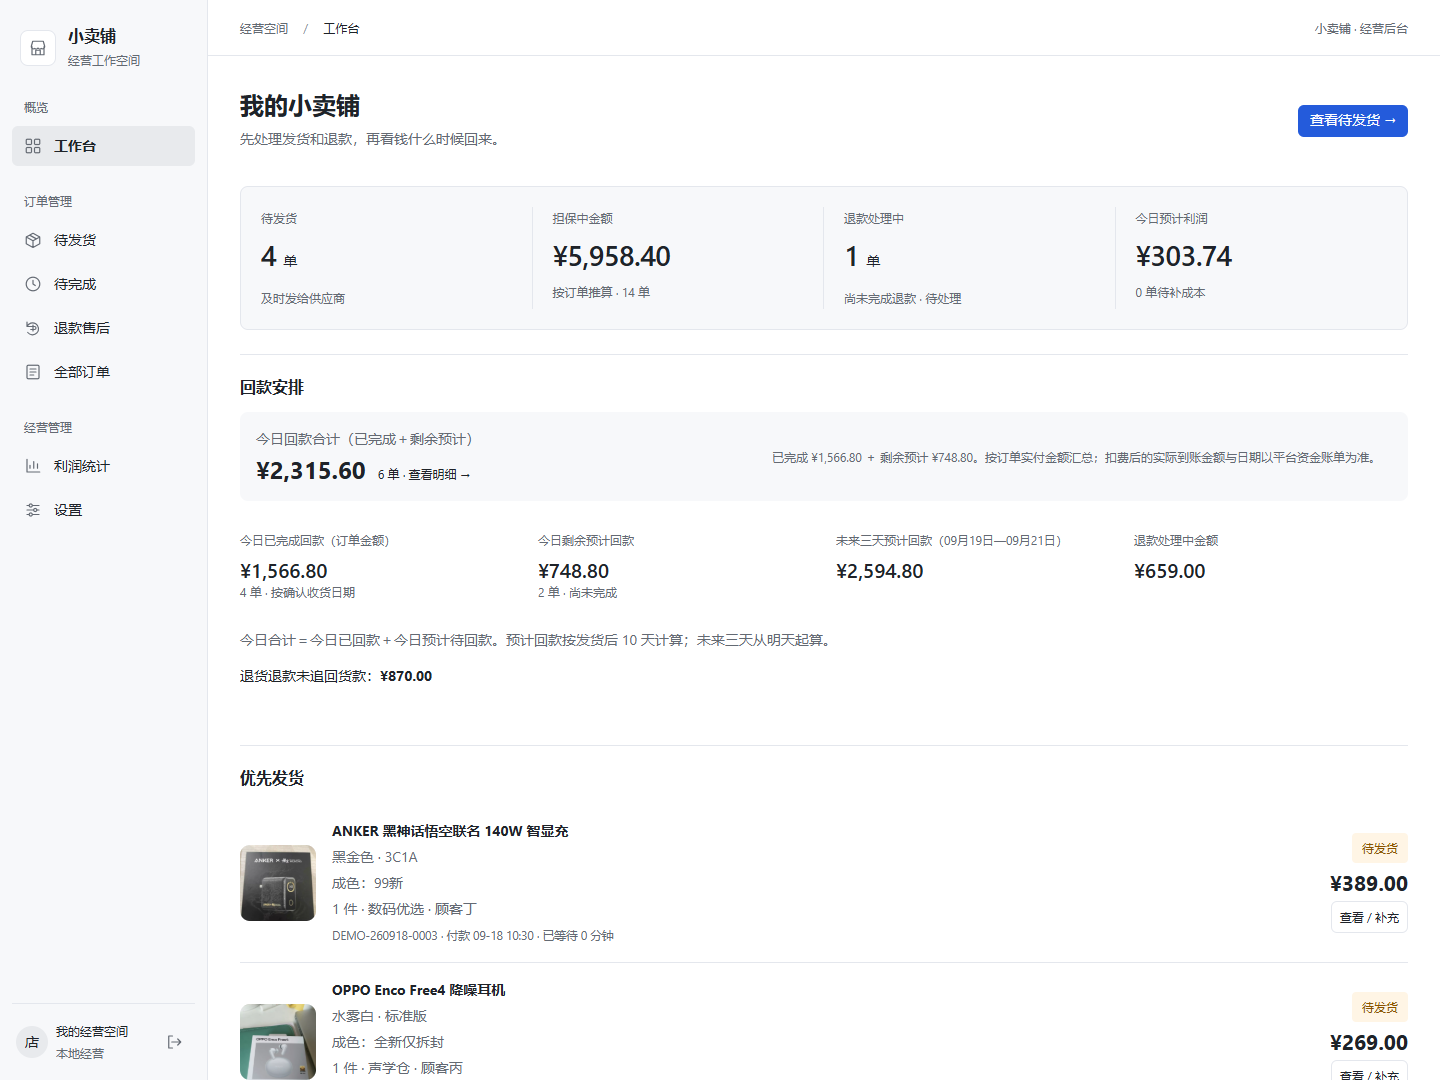
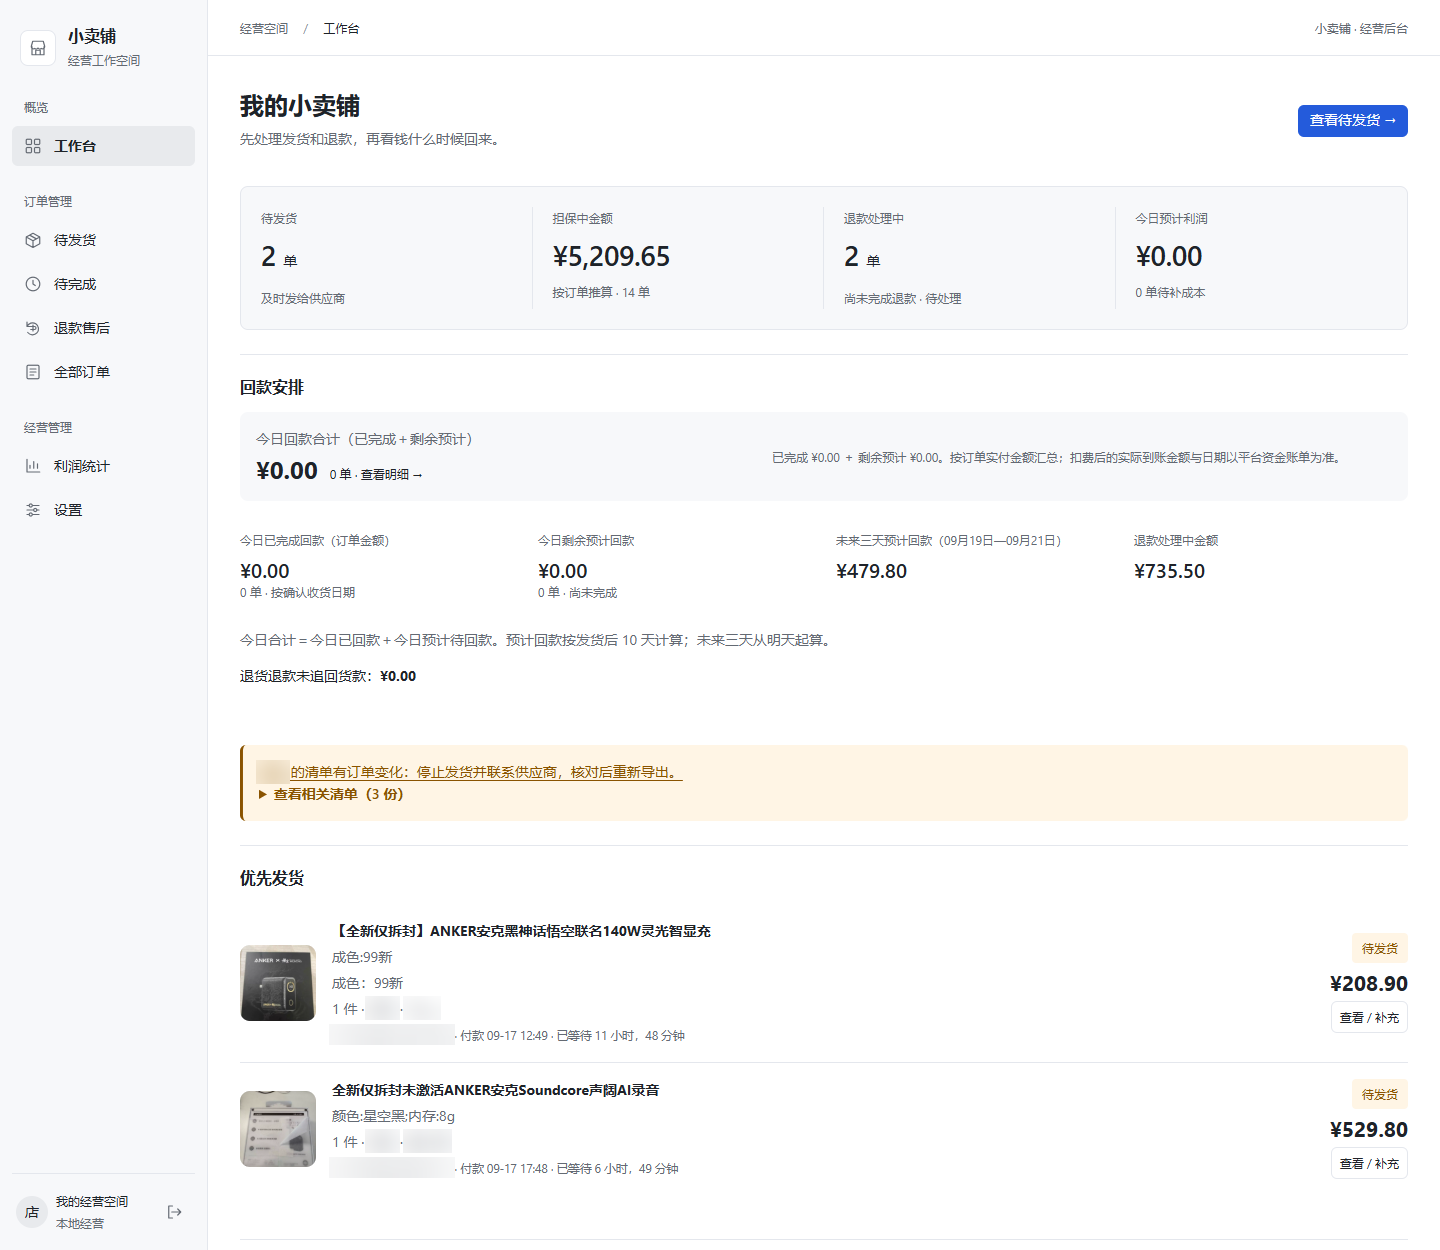
docs: showcase real interface with locally blurred private details

diff --git a/docs/images/README.md b/docs/images/README.md
@@ -1,17 +1,21 @@
 # 页面截图来源
 
-这 7 张截图于 2026-09-18 使用当前版本的真实页面、样式和交互重新拍摄，由 Edge / Playwright 在独立演示数据库中生成。没有绘制替代界面或修改页面 DOM 伪造功能。
+这 7 张截图于 2026-09-18 从当前运行的经营后台重新拍摄，使用实际商品、订单和金额。按店主要求保留真实页面的展示效果，仅对隐私信息做局部高斯模糊，不使用演示数据替换。
 
-交易、金额、供货商、收货人和地址均为虚构演示数据。商品缩略图来自现有商品素材，仅用于展示界面，相关权利归原权利人。截图不包含真实订单、客户联系方式、API 密钥或可用的供货商访问链接。
+## 隐私处理
 
-- dashboard-current.png：经营工作台，含今日和未来三天回款安排。
-- shipping-current.png：四笔待发货订单，按供货商选择导出。
-- shipping-list-current.png：可复制、可下载的文字发货清单。
-- supplier-current.png：手机端首笔订单，含收货信息、单号识别和视频保存结果。
-- supplier-desktop-current.png：同一上传流程的电脑端页面。
-- refunds-current.png：退款状态与已追回、未追回货款的对照。
-- profits-current.png：本月实际利润及展开的逐单计算过程。
+客户姓名、电话、完整地址（含换行）、订单号、快递单号、供货商名称及访问凭证等敏感文字按页面中的实际位置模糊处理。商品图片、规格、金额、日期、状态和操作按钮保留。先在内存中处理，再输出发布用 PNG；原始未脱敏截图不提交仓库。商品素材权利归原权利人。
 
-截图中的视频保存状态来自隔离环境中实际执行的示例视频上传；示例素材来源见 [测试素材说明](../../tests/fixtures/README.md)。截图过程禁止调用真实平台接口，不表示真实包裹已完成平台发货验收。
+## 图片内容
 
-再次发布前应使用最新界面重新拍摄，逐张检查图片加载、内容裁切和隐私信息。不要直接发布店主真实经营页面的截图。
+- dashboard-current.png：实际工作台与回款安排。
+- shipping-current.png：实际待发货列表与供货商选择。
+- shipping-list-current.png：实际文字发货清单，收货资料已模糊。
+- supplier-current.png：手机端单笔订单卡片，含收货信息、单号和视频上传入口。
+- supplier-desktop-current.png：同一订单卡片的电脑端布局。
+- refunds-current.png：实际退款售后列表与货款追回登记。
+- profits-current.png：实际本月利润及展开的逐单计算过程。
+
+截图过程只查看已有页面，不提交真实发货、不上传视频、不修改订单或退款状态。手机端与电脑端截取完整单笔订单卡片，不伪造平台发货成功或视频已保存的状态。
+
+后续更新应优先拍摄最新实际页面，再局部模糊隐私信息，并逐张检查图片、文字换行和裁切效果。

diff --git a/README.md b/README.md
@@ -18,7 +18,7 @@
 
 ![工作台：订单、担保金额与回款安排](docs/images/dashboard-current.png)
 
-*以下截图于 2026-09-18 使用当前版本实际页面拍摄。交易、金额和收货信息为独立演示数据；商品图片用于展示界面，不包含真实客户资料。点击图片可查看大图。*
+*以下截图于 2026-09-18 拍摄自当前版本的实际经营页面，保留真实商品、金额和操作布局。客户姓名、电话、地址、订单号等隐私信息已做局部高斯模糊。点击图片可查看大图。*
 
 ### 2. 回款安排，看清今天与接下来几天
 
@@ -52,12 +52,12 @@
 
 **供货商手机端：复制收货信息，填写单号，逐单保存视频。**
 
-<img src="docs/images/supplier-current.png" alt="供货商手机页面：收货信息、单号识别与视频保存结果" width="360">
+<img src="docs/images/supplier-current.png" alt="供货商手机页面：复制收货信息、填写单号与上传视频，客户信息已模糊" width="360">
 
 <details>
 <summary>查看供货商电脑端页面</summary>
 
-![供货商电脑端：单号识别与视频保存结果](docs/images/supplier-desktop-current.png)
+![供货商电脑端：收货信息、快递单号与视频上传](docs/images/supplier-desktop-current.png)
 
 </details>
 
@@ -83,7 +83,7 @@ flowchart LR
 
 待追回金额聚焦**退货退款且尚未追回的货款**；成本未补齐时会提示，避免把未知金额当作 0。这是店主核对后的登记，不会代替你向供货商发起扣款或追偿。
 
-![退款售后：已追回绿色、未追回红色，直接选择并确认](docs/images/refunds-current.png)
+![退款售后：未追回货款与逐单追回状态登记](docs/images/refunds-current.png)
 
 ### 5. 利润不只给一个总数，把计算过程也展示出来
 
